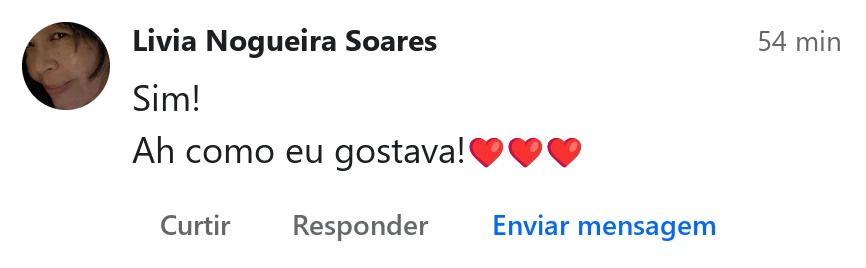
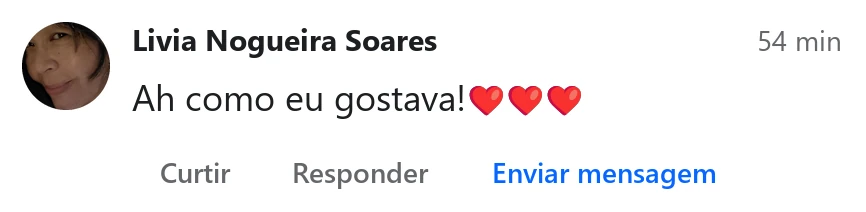
Comentário da Livia sem o "Sim!"

diff --git a/index.html b/index.html
@@ -239,7 +239,7 @@
               </div>
               <div class="car-slide">
                 <figure class="ph" style="aspect-ratio: 4 / 3" data-ph="img/prova-4.webp — print de comentário real">
-                  <img src="img/prova-4.webp" alt="Comentário de Livia Nogueira Soares: Sim! Ah, como eu gostava!" width="866" height="268" loading="lazy" decoding="async" onerror="this.parentNode.classList.add('ph-missing')" />
+                  <img src="img/prova-4.webp" alt="Comentário de Livia Nogueira Soares: Ah, como eu gostava!" width="866" height="212" loading="lazy" decoding="async" onerror="this.parentNode.classList.add('ph-missing')" />
                 </figure>
               </div>
             </div>
